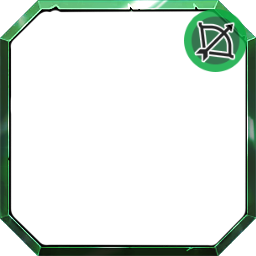
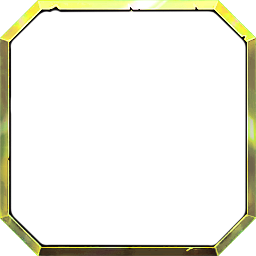
border for magic

Changed region(s): [[0.0, 0.0, 1.0, 1.0]]

diff --git a/Assets/_Scripts/Combat/Unit.cs b/Assets/_Scripts/Combat/Unit.cs
@@ -312,7 +312,7 @@ public class Unit : MonoBehaviour, INotifyPropertyChanged
         artifacts = artifactsRepo[UnitStats.Type];
 
         _statsProvider = new ArtifactUnitDecorator(_unitData, artifacts);
-        _statsProvider = new UnitLevelDecorator(_unitData, this);
+        _statsProvider = new UnitLevelDecorator(_statsProvider, this);
         _armorStats = new ArtifactItemDecorator(_armorStats, artifacts);
         _armorStats = new ArmorLevelDecorator(this);
         _weaponStats = new ArtifactItemDecorator(_weaponStats, artifacts);

diff --git a/Assets/_Scripts/Core/Slot.cs b/Assets/_Scripts/Core/Slot.cs
@@ -99,6 +99,8 @@ public class Slot : MonoBehaviour, IPointerDownHandler, IPointerUpHandler, IPoin
             border.sprite = settings.ItemBorders[2];
         else if (item.Type == ItemType.Bow || item.Type == ItemType.ArmorLeather)
             border.sprite = settings.ItemBorders[3];
+        else if (item.Type == ItemType.MagicFire)
+            border.sprite = settings.ItemBorders[4];
     }
 
     private void MergeFX(ItemSO newItem)
